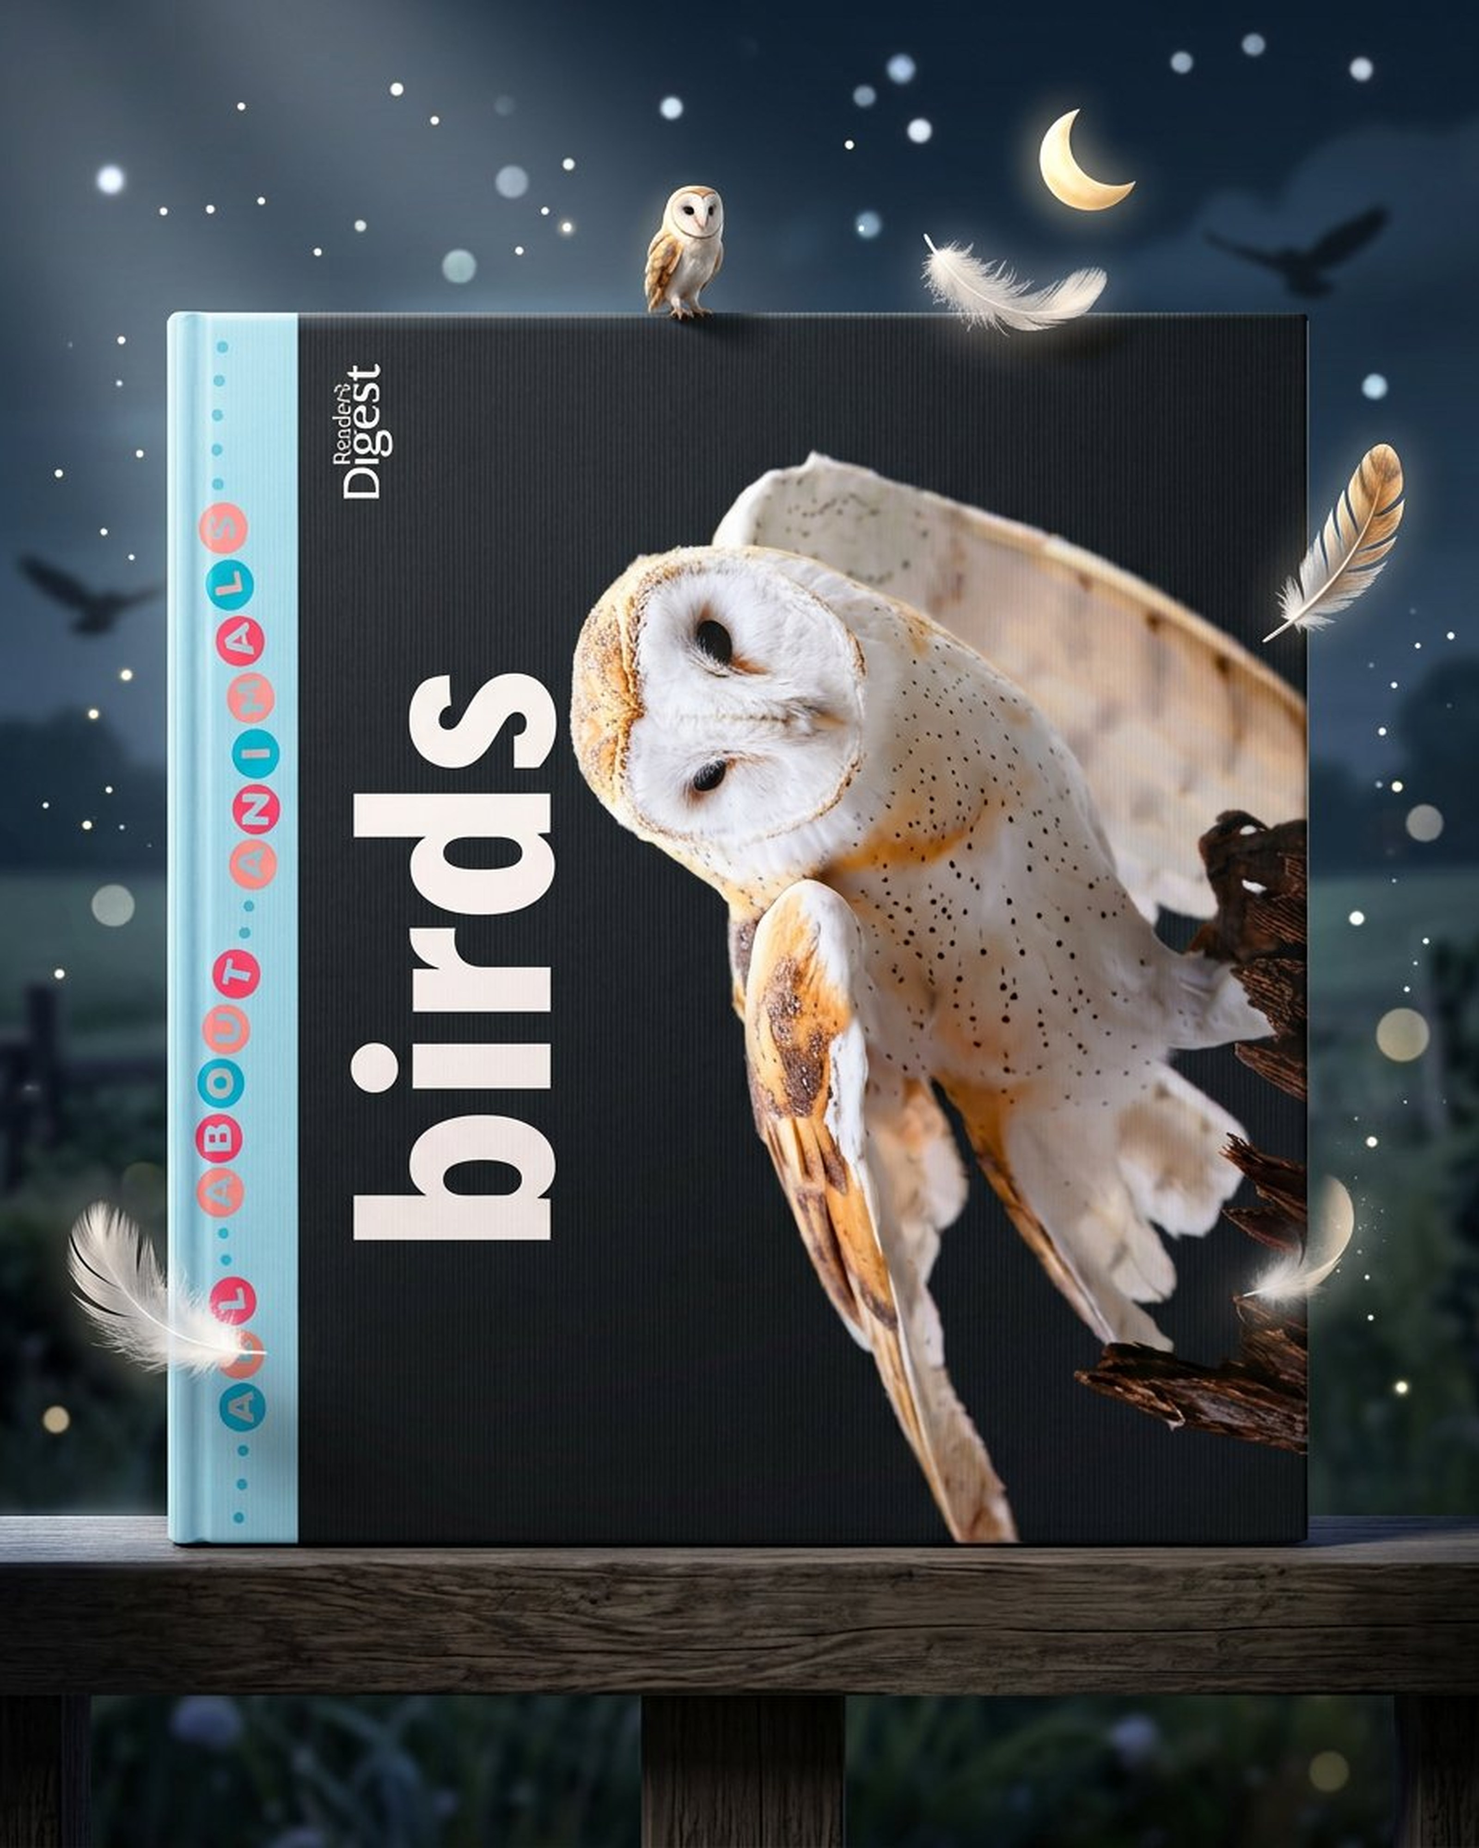
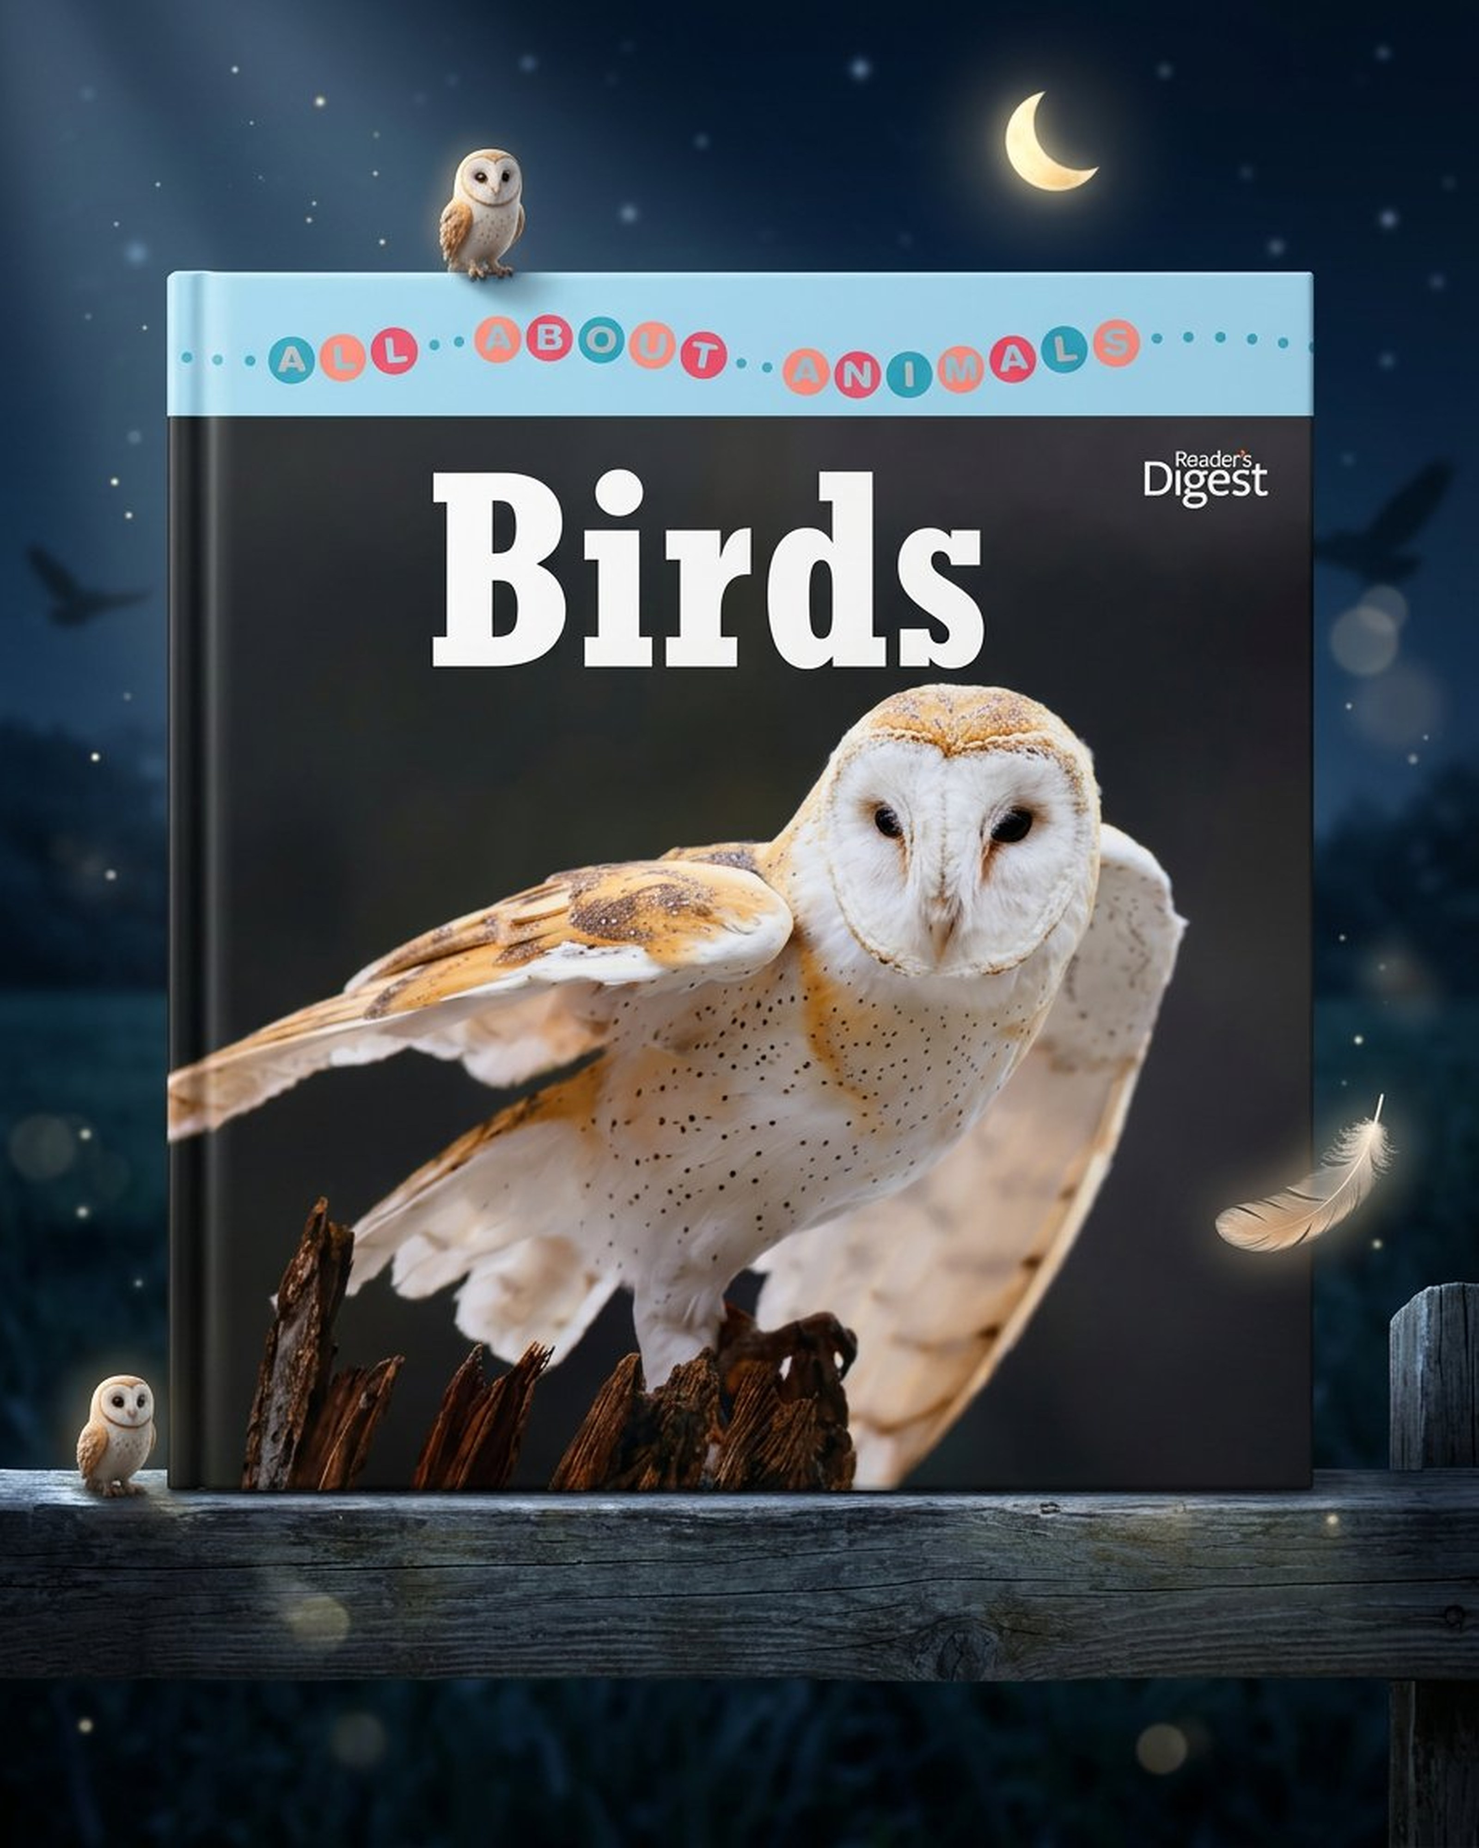
Cancel No. 08 (On with the Show!); regenerate No. 28 Birds landscape correctly
- 08 (On with the Show!) dropped at the owner's request: the slot is
  removed from the pending list and the cover notes; no image will be
  generated for it.
- 28-birds-readers-digest.jpg regenerated in its true orientation:
  landscape hardback with the 'ALL ABOUT ANIMALS' strip along the top,
  'Birds' upper-left, 'Reader's Digest' logo upper-right and the full-bleed
  barn owl photograph, standing on its long edge.
- Cover notes updated (07-12 and 25-30); site/snapshot.json refreshed;
  npm test passes.

diff --git a/18 November Day/25-30-cover-notes.md b/18 November Day/25-30-cover-notes.md
@@ -1,12 +1,12 @@
 # Cover notes: 25-30
 
-Same pipeline as the earlier batches. Each completed image was generated from its own supplied cover photo; marketing scenes are AI generated, so surrounding props and backgrounds are illustrative impressions rather than the photographed physical item. Portrait exports are 3,200 x 4,000 pixels (4:5), upscaled from generator output and not native 8K. Genre and theme are inferred from the covers. The photos of No. 25 (See Inside London) and No. 26 (My Creation Bible) were rotated in the camera; generation used correctly rotated references. No. 26 (My Creation Bible) keeps its chunky blue plastic carrying handle, which is part of the physical book. The "BARGAIN BOOKS — BLOWOUT PRICE $3.33" sticker on No. 27, the plain green round price/label sticker on No. 26 and the blank white sticker on No. 18 are not cover art and are not reproduced. On No. 27 the sticker in the photo obscures the end of the title, so the title is rendered complete as "Who Will I Be?" — readers should verify the exact last word if it matters (e.g. against the barcode 9786465293805).
+Same pipeline as the earlier batches. Each completed image was generated from its own supplied cover photo; marketing scenes are AI generated, so surrounding props and backgrounds are illustrative impressions rather than the photographed physical item. Portrait exports are 3,200 x 4,000 pixels (4:5), upscaled from generator output and not native 8K. Genre and theme are inferred from the covers. No. 08 (On with the Show!) was dropped at the owner's request and is not part of this collection. The photos of No. 25 (See Inside London) and No. 26 (My Creation Bible) were rotated in the camera; generation used correctly rotated references. No. 26 (My Creation Bible) keeps its chunky blue plastic carrying handle, which is part of the physical book. The "BARGAIN BOOKS — BLOWOUT PRICE $3.33" sticker on No. 27, the plain green round price/label sticker on No. 26 and the blank white sticker on No. 18 are not cover art and are not reproduced. On No. 27 the sticker in the photo obscures the end of the title, so the title is rendered complete as "Who Will I Be?" — readers should verify the exact last word if it matters (e.g. against the barcode 9786465293805).
 
 | No. and title | Genre and theme | Mood and dominant colors | Characters, symbols, typography and visual story |
 | --- | --- | --- | --- |
 | **25. See Inside London** — An Usborne Flap Book by Rob Lloyd Jones and Barry Ablett | Children's non-fiction lift-the-flap book; a cartoon tour of Victorian London. | Bustling, charming and detailed; powder blue, coral red, dusty rose, plum, parchment tan and Usborne rainbow. | Powder-blue sky with "An Usborne Flap Book" in purple serif caps and the Usborne balloon logo; "See Inside" in coral hand-lettered caps above "London" in huge coral serif capitals; a dense period street panorama with St Paul's purple dome at the centre, a purple railway bridge crossed by a green steam train, market stalls, horse carts, a red pillar box, a newsboy and top-hatted figures; a cloud reading "With over 80 flaps to lift"; creators' names in blue along the bottom; blue-yellow Usborne stripes at the lower spine. Scene: the upright book on a carved London stone mantelpiece against a blurred foggy Victorian skyline, with floating red pillar boxes, a steam-train engine, a street lamp, drifting birds and golden sparkles. |
 | **26. My Creation Bible** by Ken Ham, illustrated by Jonathan Taylor | Children's illustrated creation-story Bible (with music CD); dinosaurs and a global flood told for young children. Carry-along format with handle. | Lush, adventurous and calm; lime-to-mint sky, deep reef blue, palm green, coral pink, dolphin silver and bubblegum purple. | Bubbly purple bubble-letter "MY CREATION BIBLE" with a sauropod neck rising behind the last word; "Ken Ham" in bold navy and "Illustrated by Jonathan Taylor"; "Includes Music CD" on a printed curled corner ribbon (kept). A split scene: above water a misty waterfall between palms, a long-necked sauropod reaching to drink, a purple whale-like creature with a small otter on its head, a tiny mammal on the far bank; below water a deep-blue coral reef with dolphins, sea turtles, bright pink and orange corals, an orange crab and a starfish; navy band along the bottom: "Teaching kids to trust the Bible from the very first verse" in white; a chunky blue plastic carry handle faces the viewer on the left (part of the physical book). Scene: the upright carry-along book on a wooden park bench against a blurred tropical prehistoric coast, with floating sauropod, sea turtle, coral sprig and shells. |
 | **27. Who Will I Be?** by Abby Huntsman, pictures by Joanne Lew-Vriethoff | Children's picture book; a girl musing about who she'll become, with her dog on the porch. | Soft, reflective and hopeful; powder blue, sage green, cream, mustard yellow, barn red and floral pink. | "ABBY HUNTSMAN" in red slab-serif capitals; big teal serif "Who Will I Be?" beneath; a girl with a long auburn braid, yellow-mustard cardigan, striped shirt and red trousers sits on sage-green painted porch steps, petting a cream-and-tan dog; a pink-and-white floral drawstring bag on the steps; a little birdhouse on the left post; hanging ferns and a small red wagon at the right; "Pictures by Joanne Lew-Vriethoff" along the bottom. BARGAIN BOOKS price sticker excluded. Scene: the upright book on a sunlit porch step against a blurred lazy summer neighborhood, with floating cream dogs, a birdhouse, dandelion puffs, a yellow star and sparkles. |
-| **28. Birds** (All About Animals) — Reader's Digest | Children's non-fiction reference book; barn owls and wild birds in flight. | Dark, elegant and rich; charcoal black, snow white, sky-blue spine strip with pink/teal dots, coral and hoot-amber. | Charcoal-black photographic cover; left edge light sky-blue strip with "ALL ABOUT ANIMALS" stacked in alternating pink/teal/coral dotted capitals and dotted borders; white "Reader's Digest" logo upper left; the single huge white bold word "Birds" on the left; right side a glowing close-up photograph of a barn owl in mid-glide with wings spread over dark driftwood, heart-shaped facial disc and speckled golden-white plumage. Nearly square hardback. Scene: the upright book on a moonlit fence rail against a blurred moonlit hedgerow, with a floating barn owl figurine, down feather, crescent moon and moonbeam motes. |
+| **28. Birds** (All About Animals) — Reader's Digest | Children's non-fiction reference book; barn owls and wild birds in flight. | Dark, elegant and rich; charcoal black, snow white, sky-blue top strip with pink/teal dots, coral and hoot-amber. | Charcoal-black photographic cover; a light sky-blue strip across the TOP edge carries "ALL ABOUT ANIMALS" in alternating pink/teal/coral dotted capitals between dotted borders; the huge white bold word "Birds" at the upper left; white "Reader's Digest" logo upper right; the rest of the cover is a full-bleed photograph of a barn owl flaring its wings over a jagged dark wooden snag — heart-shaped facial disc, speckled golden-white plumage. A landscape-leaning hardback standing on its long edge (regenerated after the first portrait render had the wrong orientation). Scene: the upright landscape book on a moonlit wooden fence rail against a blurred moonlit hedgerow, with a floating barn-owl figurine, a drifting down feather, a crescent moon and moonbeam motes. |
 | **29. Roly Poly** by Mem Fox, illustrated by Jane Dyer | Children's picture book; a plump felted bear cub and a red polka-dot scarf in the snow. | Soft, tender and hushed; snow white, deep teal, frost blue-grey, berry red and grey-beige bear wool. | Large teal serif "Roly Poly" across the top; below, a photograph of a small white felted-wool teddy bear — black bead eyes, dark nose, blush cheeks, fuzzy round body, standing in snow wearing a long red polka-dot scarf trailing both sides — against a softly blurred blue-grey winter wash. "Mem Fox" and "Jane Dyer" in teal serif at lower left and lower right. Roughly square hardback. Scene: the upright book on a snow-dusted windowsill against a blurred snowy dusk landscape with distant pines and falling snow, with floating felted bear, knitted scarf, snowflakes and glowing window-light motes. |
 | **30. Alice the Amber Fairy** — Sparkle Town Fairies — "and the Showstopper Spectacular" | Children's fairy fantasy chapter book; Alice, the amber fairy, shines at the Sparkle Town spectacular. No author printed on the front. | Glittering, glamorous and sparkly; gold glitter, amber, hot pink, coral, jet black and candy white. | A top border of tiny colorful Sparkle Town houses with a hot-pink banner reading "SPARKLE TOWN FAIRIES"; below, on sparkling gold glitter, a big cute fairy girl with black hair in two buns, long lashes, blush cheeks, an elaborate white-and-gold filigree tiara with an orange bow and a central amber jewel, and an orange jewel-dotted dress with sheer wings; she holds a tall orange wand topped with a huge diamond-cut amber jewel ringed by orange daisies; on the right a white cloud panel with "Alice", "the", "Amber", "Fairy" in amber-red dotted circus-style lettering, and "and the Showstopper Spectacular" in small orange script. Scene: the upright book on a gold glitter vanity table against a blurred Sparkle Town street at golden hour with festoon lights, with floating amber wand, gold stars, orange daisies, miniature tiara and glitter motes. |

diff --git a/18 November Day/07-12-cover-notes.md b/18 November Day/07-12-cover-notes.md
@@ -2,14 +2,14 @@
 
 Same pipeline as the 01-06 batch. Each completed image was generated from its own supplied cover photo; marketing scenes are AI generated, so surrounding props and backgrounds are illustrative impressions rather than the photographed physical item. Portrait exports are 3,200 x 4,000 pixels (4:5), upscaled from generator output and not native 8K. Genre and theme are inferred from the covers.
 
-The photos of No. 07 (Portly Pig) and No. 08 (On with the Show!) were rotated 90 degrees in the camera; both books are landscape board books and are shown standing upright on their long bottom edge with the covers correctly oriented and readable. The supplied scannable promo badge on No. 11 (Lola the Lollipop Fairy) is part of the printed cover design and is kept as photographed. No written-in price stickers were present on these covers.
+The photo of No. 07 (Portly Pig) was rotated 90 degrees in the camera; the landscape board book is shown standing upright on its long bottom edge with the cover correctly oriented and readable. The supplied scannable promo badge on No. 11 (Lola the Lollipop Fairy) is part of the printed cover design and is kept as photographed. No written-in price stickers were present on these covers.
 
-**No. 08 (On with the Show!) remains ungenerated — the image generator consistently fails on this cover across every attempt in three turns. No. 09 (The Ultimate Colouring Book) was generated in the follow-up batch.**
+**No. 08 (On with the Show!) — CANCELLED at the owner's request ("we don't need that"). The slot is dropped and no image will be generated for it. No. 09 (The Ultimate Colouring Book) was generated in the follow-up batch.**
 
 | No. and title | Genre and theme | Mood and dominant colors | Characters, symbols, typography and visual story |
 | --- | --- | --- | --- |
 | **07. Portly Pig** by Axel Scheffler (Nosy Crow, Farmyard Friends) | Children's board book; a big farmyard pig in his muddy pen. | Sunny, warm and gently comic; fresh leaf green, pig pink, chalk white, sky blue, golden wheat and mud brown. | A round pink pig with muddy cheek spots and one surprised eye stands in a muddy pen with a grey wooden fence, a dense green tree, blue rolling mountains, a golden wheat field and a small orange butterfly. Green-and-light-green striped spine edge on the left; "Axel Scheffler" in dark handwritten script above the big green hand-drawn title "Portly Pig"; green "FARMYARD FRIENDS" band along the bottom; red Nosy Crow logo at the bottom right. Landscape board book. Scene: the upright book on a sunlit wooden farmhouse ledge against blurred blue hills and fields, with a floating piglet, a muddy hoof print, a monarch butterfly, a daisy and straw at the edges. |
-| **08. On with the Show!** (Disney Princess, Scholastic — "A Story About Creativity") — *PENDING generation (turn limit)* | Children's Disney Princess storybook; creativity and theatre through Beauty and the Beast. | Warm, theatrical and sparkling; golden yellow, orange, royal purple, stage red and sky blue. | A golden yellow-to-orange gradient cover with white sparkles and a purple top band; the pink oval "Disney PRINCESS" logo; the title "On with the Show!" in large white italic serif; the scene of Belle in a blue-and-white village dress reading an open green book on a wooden stage under red curtains, with the Beast in a white shirt and purple cape, Lumiere the candelabra and Cogsworth the clock; a gold scroll banner below reading "A Story About Creativity"; red SCHOLASTIC logo at the bottom. Landscape board book. Planned scene: the upright book on a polished theatre-stage floor with red curtains and warm footlights blurred behind, with a floating candelabra, clock, quill, rose and sparkle motes. |
+| **08. On with the Show!** — CANCELLED (not needed, per owner). | Children's Disney Princess storybook; creativity and theatre through Beauty and the Beast. | Warm, theatrical and sparkling; golden yellow, orange, royal purple, stage red and sky blue. | A golden yellow-to-orange gradient cover with white sparkles and a purple top band; the pink oval "Disney PRINCESS" logo; the title "On with the Show!" in large white italic serif; the scene of Belle in a blue-and-white village dress reading an open green book on a wooden stage under red curtains, with the Beast in a white shirt and purple cape, Lumiere the candelabra and Cogsworth the clock; a gold scroll banner below reading "A Story About Creativity"; red SCHOLASTIC logo at the bottom. Landscape board book. Planned scene: the upright book on a polished theatre-stage floor with red curtains and warm footlights blurred behind, with a floating candelabra, clock, quill, rose and sparkle motes. |
 | **09. The Ultimate Colouring Book** — From the movie Frozen (Disney Frozen) | Children's Disney activity/colouring book; Frozen characters for copy/part colouring and posters. | Bold, icy and energetic; royal purple, teal starburst, snow white, ice blue and Anna magenta. | Purple halftone cover with white line-art colouring panels in the corners and a big teal starburst behind the huge white rounded hand-lettered title "The ULTIMATE Colouring Book"; the blue "From the movie Disney FROZEN" badge at the top; Elsa (long platinum braid, ice-blue gown) and Anna (auburn braids, magenta-and-black) back to back at the centre; Olaf the snowman at the left; Kristoff at the right; a small blue troll (Pabbie) top left; white circle badge reading "70 pages packed with copy colouring, part colouring & posters!" bottom right. Scene: the upright book on a snow-dusted table before a blurred ice-spire winter wonderland with aurora sky, with floating teal crayon, ice puff and snowflakes at the edges. |
 | **10. Rosy's Balloon** by Steve Whitlow | Children's picture book; a small bear and a big pink star balloon, a gentle uplifting tale. | Tender, dreamy and upbeat; sky blue fading to warm cream, grass green, hot pink, butter yellow and coral. | Big hot-pink serif title "Rosy's Balloon" with "Steve Whitlow" in small dark handwritten lettering upper left. Rosy, a small orange-brown teddy in a pink dress with white stars, reaches toward a glossy pink star-shaped balloon on a stick over a flower-dotted sloping meadow; a small orange rabbit climbs from a burrow holding an orange teddy-shaped balloon; pastel butterflies flutter around; a purple heart badge at the bottom right reads "A charming and uplifting story" in white script. Scene: the upright book on a grassy flower-dotted ledge before a blurred rolling meadow under a warm sky, with a floating pink star balloon, a tiny teddy, butterflies, blossom and sparkles. |
 | **11. Lola the Lollipop Fairy** | Children's fairy/fantasy picture book; a sweet-natured lollipop fairy at the circus. No author printed on the cover. | Sparkly, energetic and sweet; teal turquoise, hot pink, magenta, candy yellow and silver. | Teal cover strewn with shimmering silver stars; the title in flowing silver-pink script "Lola the Lollipop Fairy"; Lola — a girl with warm brown skin, orange cheek dots and two enormous pink spiral lollipop hair buns, in a magenta-and-navy starred outfit with striped leggings and small yellow fairy wings — flying with a swirl lollipop wand; a tiny grey mouse in a striped shirt rides a yellow trapeze above; a red-and-white big-top circus tent anchors the bottom right; the printed circular purple badge reads "Scan here for the animated story! LOLA the Lollipop Fairy, read by SUZANNE JONES" with a QR square (kept as photographed). Scene: the upright book on a candy-striped sweets counter before a blurred teal-dusk fairground with big-top tents and string lights, with a floating swirled lollipop, silver stars, a circus tent top and a star-tipped wand. |
